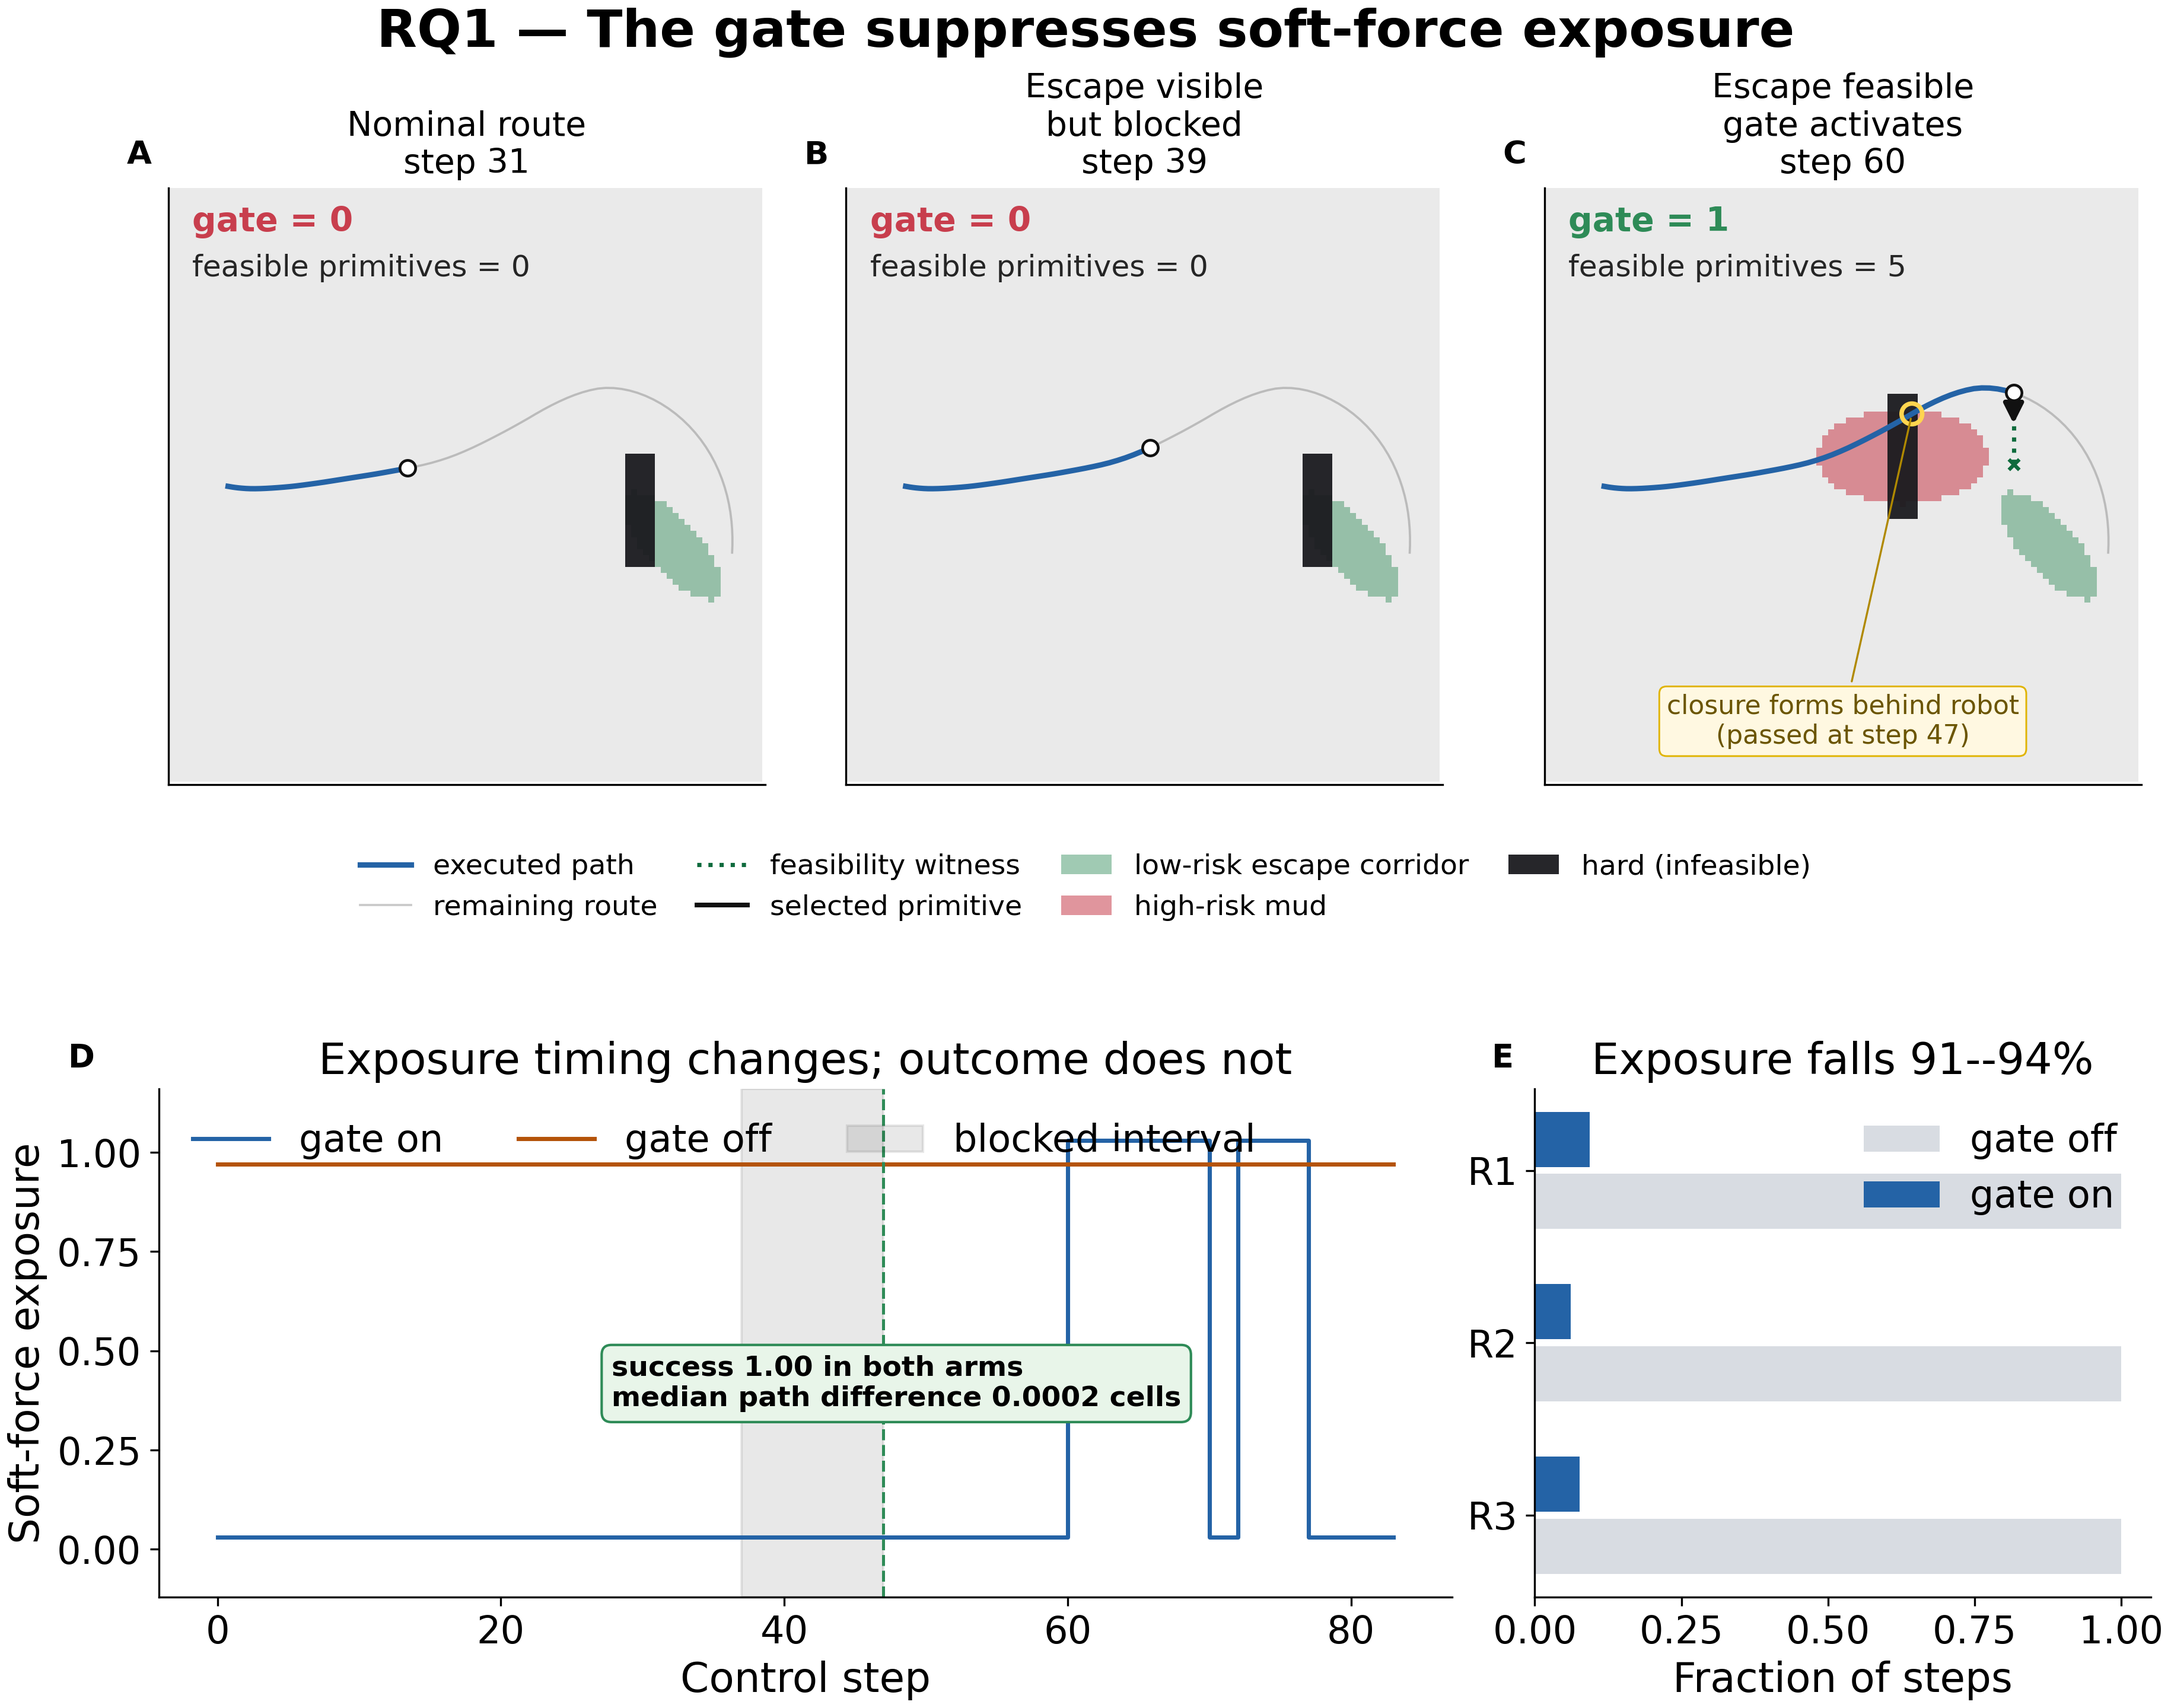
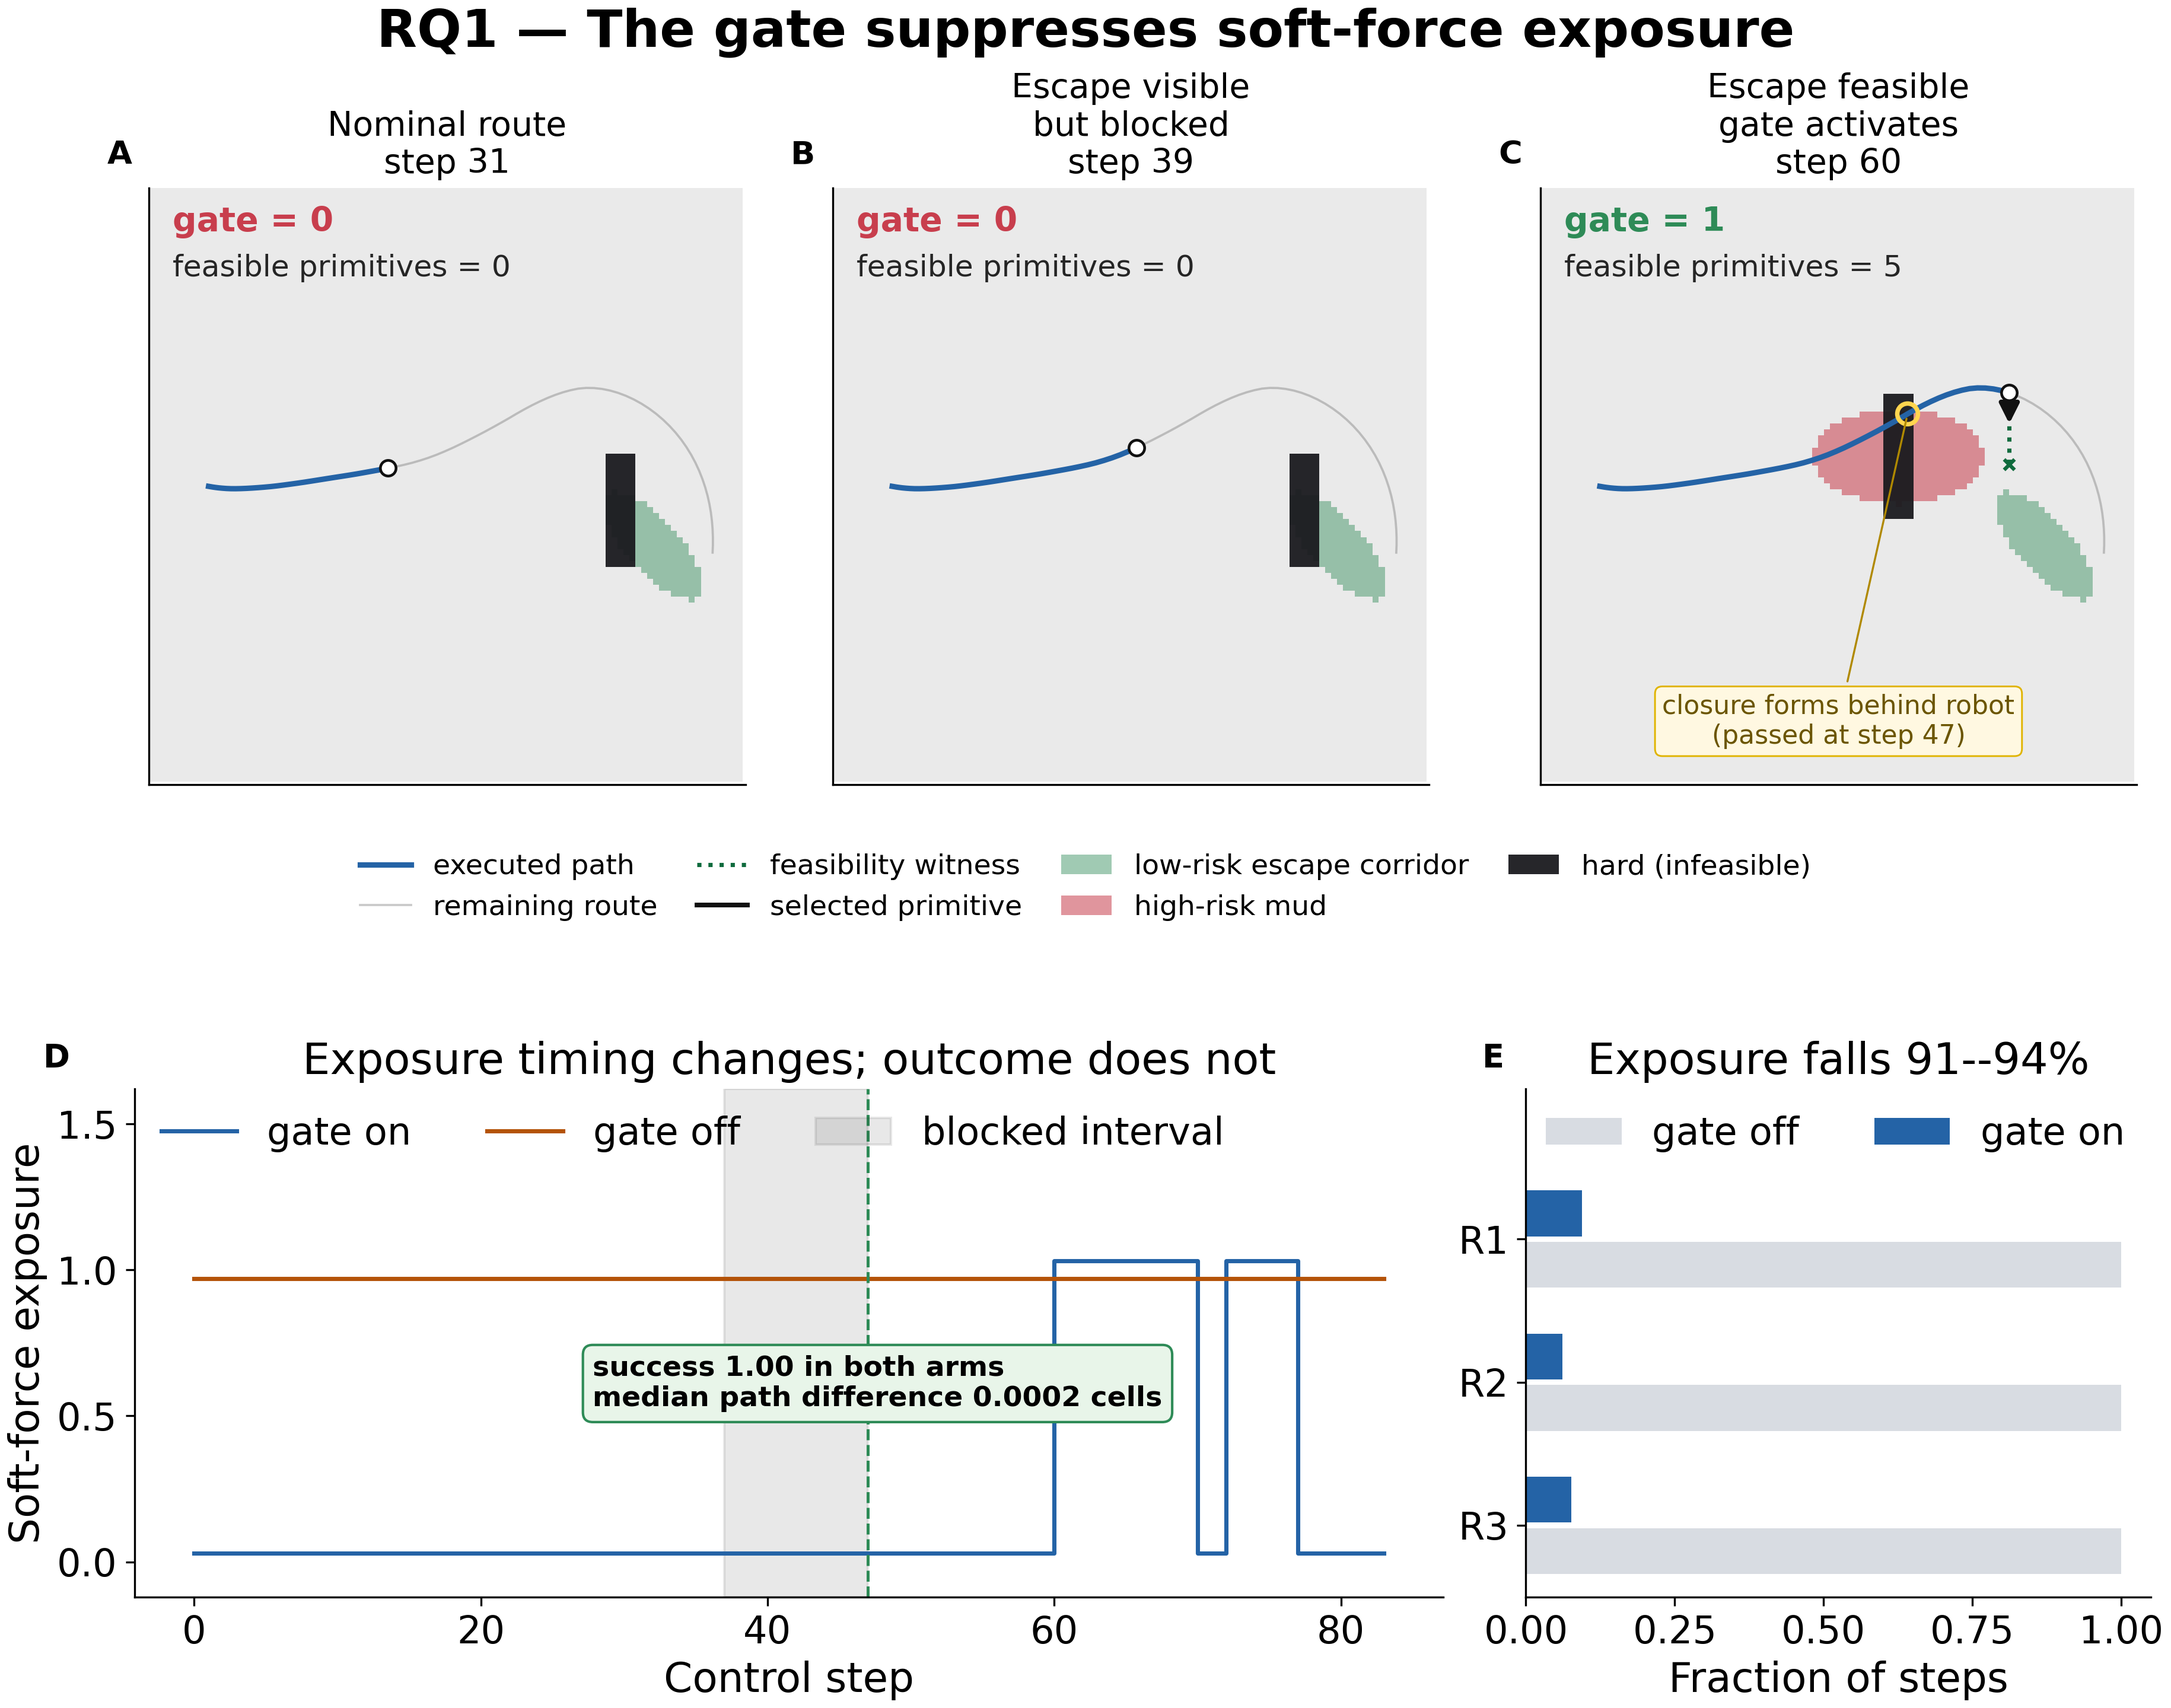
Give the RQ1 panel legends their own headroom
Panel D's legend was drawn over the gate-off trace and panel E's over the R1
bars. Both axes now extend past the data so the legends have empty space to
occupy, and the duplicated divergence computation left by the previous edit is
removed.

The highway panel regeneration is no longer used: the original annotated figure
is restored in the paper, since the redraw dropped the axes, units, in-panel
callouts and per-panel readouts that carry the figure's meaning.

diff --git a/rq_visualizations/rq1_gate_exposure.py b/rq_visualizations/rq1_gate_exposure.py
@@ -223,9 +223,9 @@ def main() -> None:
                 where="post", color=color, lw=1.7, label=arm.replace("_", " "))
     ax.axvspan(event, opening, color=COLORS["hazard"], alpha=0.10, label="blocked interval")
     ax.axvline(opening, color=COLORS["safe"], ls="--", lw=1.2)
-    ax.set(xlabel="Control step", ylabel="Soft-force exposure", ylim=(-0.12, 1.16),
+    ax.set(xlabel="Control step", ylabel="Soft-force exposure", ylim=(-0.12, 1.62),
            title="Exposure timing changes; outcome does not")
-    ax.legend(ncol=3, loc="upper left")
+    ax.legend(ncol=3, loc="upper left", framealpha=0.0, borderaxespad=0.3)
 
     ax = fig.add_subplot(gs[1, 2])
     panel_label(ax, "E")
@@ -234,11 +234,10 @@ def main() -> None:
     y = np.arange(3)
     ax.barh(y + 0.18, [1.0] * 3, 0.32, color=COLORS["muted"], label="gate off")
     ax.barh(y - 0.18, on_frac, 0.32, color=COLORS["material"], label="gate on")
-    ax.set(yticks=y, yticklabels=regimes, xlim=(0, 1.05), xlabel="Fraction of steps",
-           title="Exposure falls 91--94%")
+    ax.set(yticks=y, yticklabels=regimes, xlim=(0, 1.05), ylim=(-1.05, 2.5),
+           xlabel="Fraction of steps", title="Exposure falls 91--94%")
     ax.invert_yaxis()
-    ax.legend(loc="upper right", framealpha=0.0)
-    divergence = paired_divergence(trace)
+    ax.legend(loc="upper right", framealpha=0.0, ncol=2, borderaxespad=0.3)
 
     divergence = paired_divergence(trace)
     ax_d.text(0.35, 0.42,
